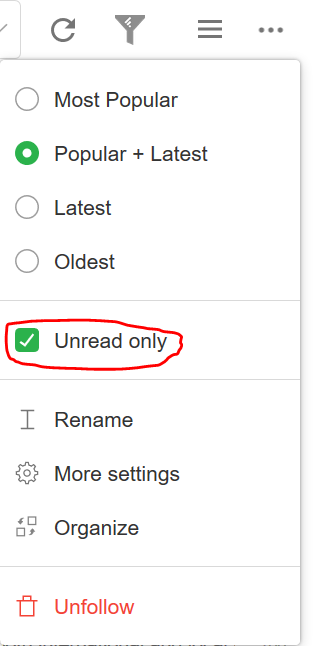
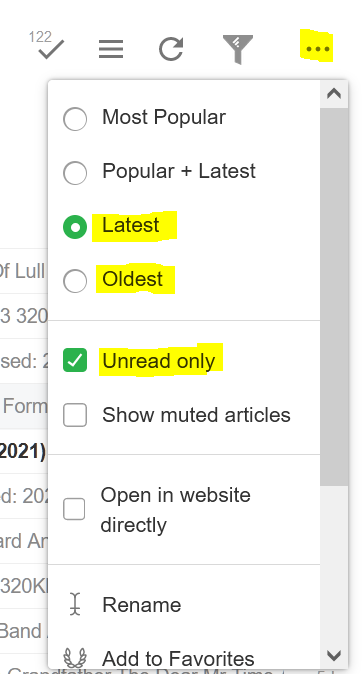
[3.21.6] Fix #110

diff --git a/script/Feedly_filtering_and_sorting.user.js b/script/Feedly_filtering_and_sorting.user.js
@@ -14,7 +14,7 @@
 // @resource    node-creation-observer.js https://greasyfork.org/scripts/19857-node-creation-observer/code/node-creation-observer.js?version=174436
 // @require     https://cdnjs.cloudflare.com/ajax/libs/jscolor/2.0.4/jscolor.min.js
 // @include     *://feedly.com/*
-// @version     3.21.5
+// @version     3.21.6
 // @grant       GM_setValue
 // @grant       GM_getValue
 // @grant       GM_deleteValue
@@ -2053,7 +2053,10 @@ class FeedlyPage {
                 const id = getArticleId(node);
                 const sortedIds = getService("navigo").entries.map((e) => e.id);
                 let nextIndex = sortedIds.indexOf(id) + 1;
-                if (nextIndex > 0 && nextIndex < sortedIds.length) {
+                if (nextIndex === sortedIds.length) {
+                    return parent.appendChild(node);
+                }
+                else if (nextIndex > 0 && nextIndex < sortedIds.length) {
                     const nextId = sortedIds[nextIndex];
                     sibling = getById(nextId);
                 }
@@ -2734,6 +2737,19 @@ class FeedlyPage {
                     .filter((id) => sortedVisibleArticles.includes(id));
                 for (var i = 0; i < sortedVisibleArticles.length && sorted; i++) {
                     if (visibleEntryIds[i] !== sortedVisibleArticles[i]) {
+                        debugLog(() => [
+                            "entries not sorted",
+                            "\n\t" +
+                                visibleEntryIds
+                                    .slice(Math.max(0, i - 1), Math.min(i + 2, entries.length))
+                                    .map((id) => new Article(getById(id)).getTitle())
+                                    .join("\n\t"),
+                            "\nvisible:\n\t" +
+                                sortedVisibleArticles
+                                    .slice(Math.max(0, i - 1), Math.min(i + 2, entries.length))
+                                    .map((id) => new Article(getById(id)).getTitle())
+                                    .join("\n\t"),
+                        ], "ensureSortedEntries");
                         sorted = false;
                     }
                 }
@@ -2761,6 +2777,7 @@ class FeedlyPage {
                 }
                 catch (e) {
                     debugLog(() => ["!!", e.name, e.message, "!!"], "ensureSortedEntries");
+                    setTimeout(ensureSortedEntries, 500);
                 }
             }
             debugLog(() => "end", "ensureSortedEntries");

diff --git a/src/FeedlyPage.ts b/src/FeedlyPage.ts
@@ -255,7 +255,9 @@ export class FeedlyPage {
         const id = getArticleId(node);
         const sortedIds = getService("navigo").entries.map((e) => e.id);
         let nextIndex = sortedIds.indexOf(id) + 1;
-        if (nextIndex > 0 && nextIndex < sortedIds.length) {
+        if (nextIndex === sortedIds.length) {
+          return parent.appendChild(node);
+        } else if (nextIndex > 0 && nextIndex < sortedIds.length) {
           const nextId = sortedIds[nextIndex];
           sibling = getById(nextId);
         } else {
@@ -1030,10 +1032,26 @@ export class FeedlyPage {
         }
         len += sortedVisibleArticles.length;
         const visibleEntryIds = entries
-          .map((e) => e.id)
+          .map((e) => e.id as string)
           .filter((id) => sortedVisibleArticles.includes(id));
         for (var i = 0; i < sortedVisibleArticles.length && sorted; i++) {
           if (visibleEntryIds[i] !== sortedVisibleArticles[i]) {
+            debugLog(
+              () => [
+                "entries not sorted",
+                "\n\t" +
+                  visibleEntryIds
+                    .slice(Math.max(0, i - 1), Math.min(i + 2, entries.length))
+                    .map((id) => new Article(getById(id)).getTitle())
+                    .join("\n\t"),
+                "\nvisible:\n\t" +
+                  sortedVisibleArticles
+                    .slice(Math.max(0, i - 1), Math.min(i + 2, entries.length))
+                    .map((id) => new Article(getById(id)).getTitle())
+                    .join("\n\t"),
+              ],
+              "ensureSortedEntries"
+            );
             sorted = false;
           }
         }
@@ -1068,6 +1086,7 @@ export class FeedlyPage {
             () => ["!!", e.name, e.message, "!!"],
             "ensureSortedEntries"
           );
+          setTimeout(ensureSortedEntries, 500);
         }
       }
       debugLog(() => "end", "ensureSortedEntries");

diff --git a/README.md b/README.md
@@ -14,10 +14,6 @@ When this extension/script is enabled, a filter icon will appear next to the set
 
 ![Import settings](https://raw.githubusercontent.com/soufianesakhi/feedly-filtering-and-sorting/master/screenshots/settings_controls.PNG)
 
-The `Unread Only` option is required to be enabled to support all the features.
-
-![Feedly settings](https://raw.githubusercontent.com/soufianesakhi/feedly-filtering-and-sorting/master/screenshots/feedly_settings.PNG)
-
 ## Features
 
 - Multi level sorting: by popularity, by title, by source or by publish date.
@@ -41,6 +37,14 @@ Two settings configurations are available:
   - Subscription and category specific configurations
   - The default settings values are the global settings.
   - A group of subscriptions can share the same configuration by linking them to the same subscription.
+
+## Requirements
+
+### Feedly settings
+![Feedly settings](https://raw.githubusercontent.com/soufianesakhi/feedly-filtering-and-sorting/master/screenshots/feedly_settings.PNG)
+
+- The `Unread Only` option is required to be checked
+- Sorting should be set to either `Latest` or `Oldest`
 
 ## [Changelog](https://github.com/soufianesakhi/feedly-filtering-and-sorting/releases)
 
